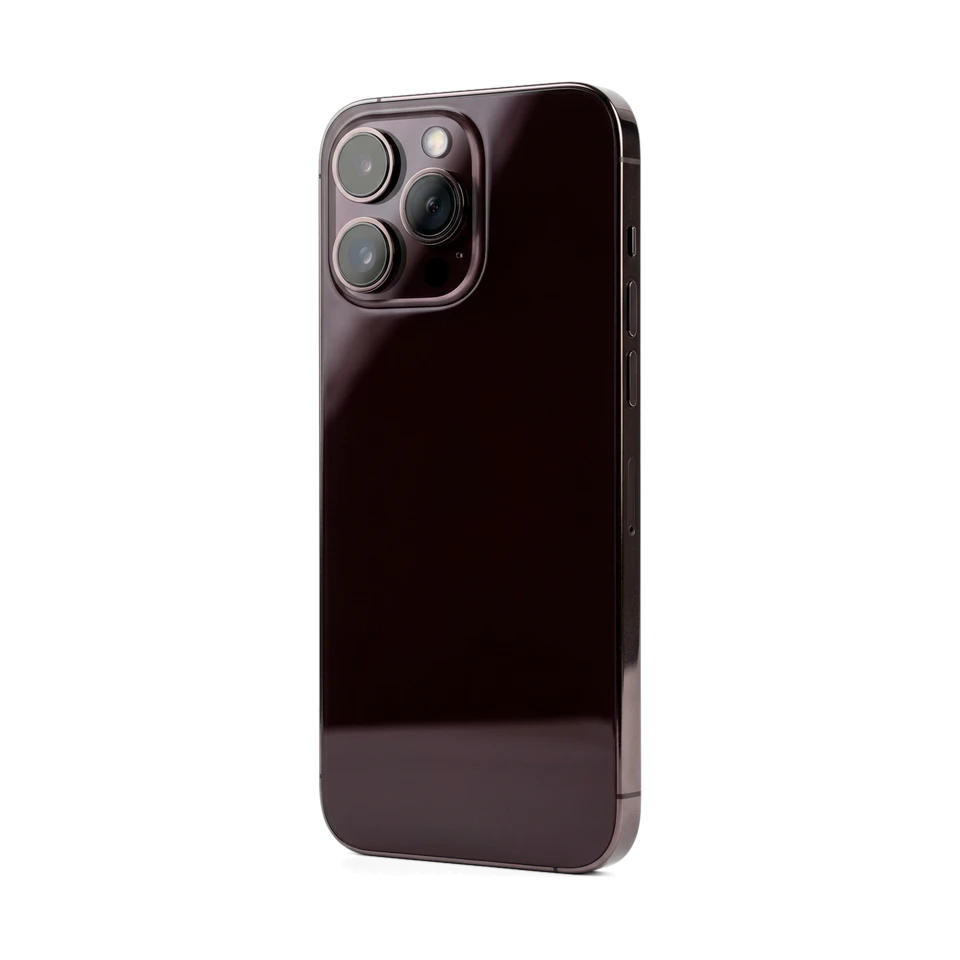
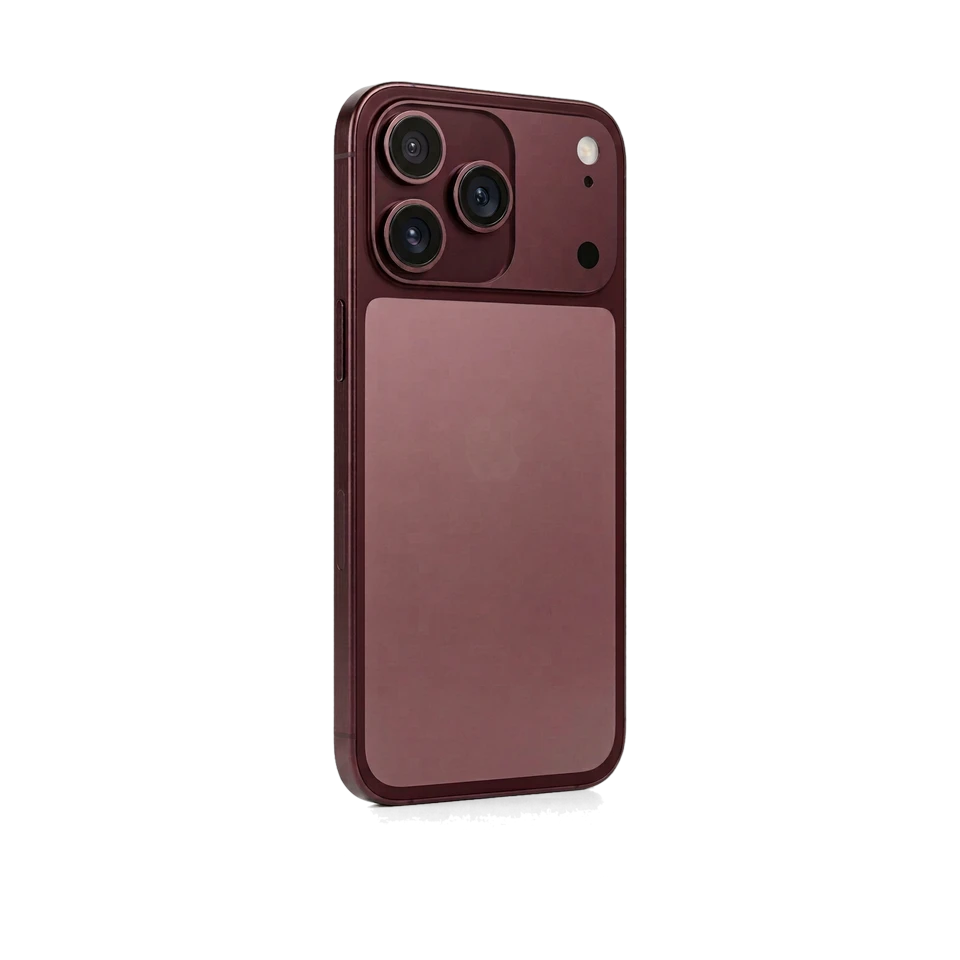
v0.72.2 — 18 Pro Max как настоящий: плато камер на всю ширину спинки, стеклянное окошко

Changed region(s): [[0.3125, 0.0625, 0.6875, 0.9375]]

diff --git a/src/engine/shop.ts b/src/engine/shop.ts
@@ -148,7 +148,7 @@ export const SHOP_ITEMS: ShopItem[] = [
   { id: 'phone-18', slot: 'toy', kind: 'toy', toy: 'phone', emoji: '📱', title: 'iPhone 18', desc: 'Новая бордовая линейка: глянцевое стекло и две камеры. Нажми, чтобы повернуть', price: 85 },
   { id: 'phone-18-air', slot: 'toy', kind: 'toy', toy: 'phone', emoji: '📱', title: 'iPhone 18 Air', desc: 'Самый тонкий в линейке: светло-бордовый корпус и одна камера', price: 95 },
   { id: 'phone-18-pro', slot: 'toy', kind: 'toy', toy: 'phone', emoji: '📱', title: 'iPhone 18 Pro', desc: 'Бордовый титановый корпус и три камеры. Нажми, чтобы повернуть', price: 120 },
-  { id: 'phone-18-max', slot: 'toy', kind: 'toy', toy: 'phone', emoji: '📱', title: 'iPhone 18 Pro Max', desc: 'Тёмно-бордовый гигант: самый большой экран линейки и лучшая камера', price: 140 },
+  { id: 'phone-18-max', slot: 'toy', kind: 'toy', toy: 'phone', emoji: '📱', title: 'iPhone 18 Pro Max', desc: 'Как настоящий Pro Max: широкое плато камер на всю спинку, алюминиевый корпус и стеклянное окошко. Тёмно-бордовый, самый большой в линейке', price: 140 },
   { id: 'laptop-air', slot: 'toy', kind: 'toy', toy: 'phone', emoji: '💻', title: 'Невесомый Air', desc: 'Тонкий серебристый ноутбук: настоящие клавиши, большой трекпад и яркий экран', price: 110 },
   { id: 'tv-cinema', slot: 'toy', kind: 'toy', toy: 'phone', emoji: '📺', title: 'Домашний кинотеатр', desc: 'Большой телевизор с тонкой рамкой: горное озеро на экране как живое', price: 95 },
   { id: 'headphones-max', slot: 'toy', kind: 'toy', toy: 'phone', emoji: '🎧', title: 'Серебряный Max', desc: 'Наушники в стиле Apple: сетчатое оголовье, мягкие амбушюры и металлические чашки', price: 65 },

diff --git a/docs/RELEASE-0.72.2.md b/docs/RELEASE-0.72.2.md
@@ -5,7 +5,8 @@
 ## Что изменено
 
 - **Вся линейка iPhone 18 перегенерирована в фотореалистичном стиле настоящего флагмана**: стеклянные спинки с настоящими отражениями, полированные металлические рамки, крупные модули камер-плато в левом верхнем углу, вспышки и сенсоры — вместо прежних мультяшных 3D-спинок 0.72.1.
-- **Основной цвет линейки — бордовый**, у каждой модели свой оттенок: iPhone 18 — глянцевый бордовый (две камеры), 18 Air — светло-бордовый, самый тонкий, с одной камерой в «пилюле», 18 Pro — матовый тёмный бордо-титан (три камеры), 18 Pro Max — самый тёмный винный глянец (три камеры).
+- **Основной цвет линейки — бордовый**, у каждой модели свой оттенок: iPhone 18 — глянцевый бордовый (две камеры), 18 Air — светло-бордовый, самый тонкий, с одной камерой в «пилюле», 18 Pro — матовый тёмный бордо-титан (три камеры), 18 Pro Max — самый тёмный винный (три камеры).
+- **18 Pro Max дополнительно приближен к настоящему** (по открытым фотографиям и описаниям iPhone 17 Pro Max / утечкам 18 Pro Max): широкое плато камер на всю ширину спинки, три объектива треугольником слева, вспышка и LiDAR справа на плато, алюминиевый unibody-корпус и большое стеклянное «окошко» Ceramic Shield под плато.
 - Диагональные исходники Air и Pro Max не выравнивались поворотом без потери «настоящести», поэтому Air и Pro Max сгенерированы заново сразу в вертикальной ориентации; силуэты всех четырёх спинок стоят вертикально (960×960, прозрачный фон, посадка как у остальных телефонов, маска перекраски работает).
 - **Базовые палитры перекраски** линейки теперь бордовые («Бордовый», «Светло-бордовый», «Тёмный бордо», «Винный») — магазинный тюнинг по умолчанию красит в цвет картинки; описания моделей в каталоге обновлены под новый цвет. Прежние цвета остались доступны дополнительными оттенками палитр.
 
